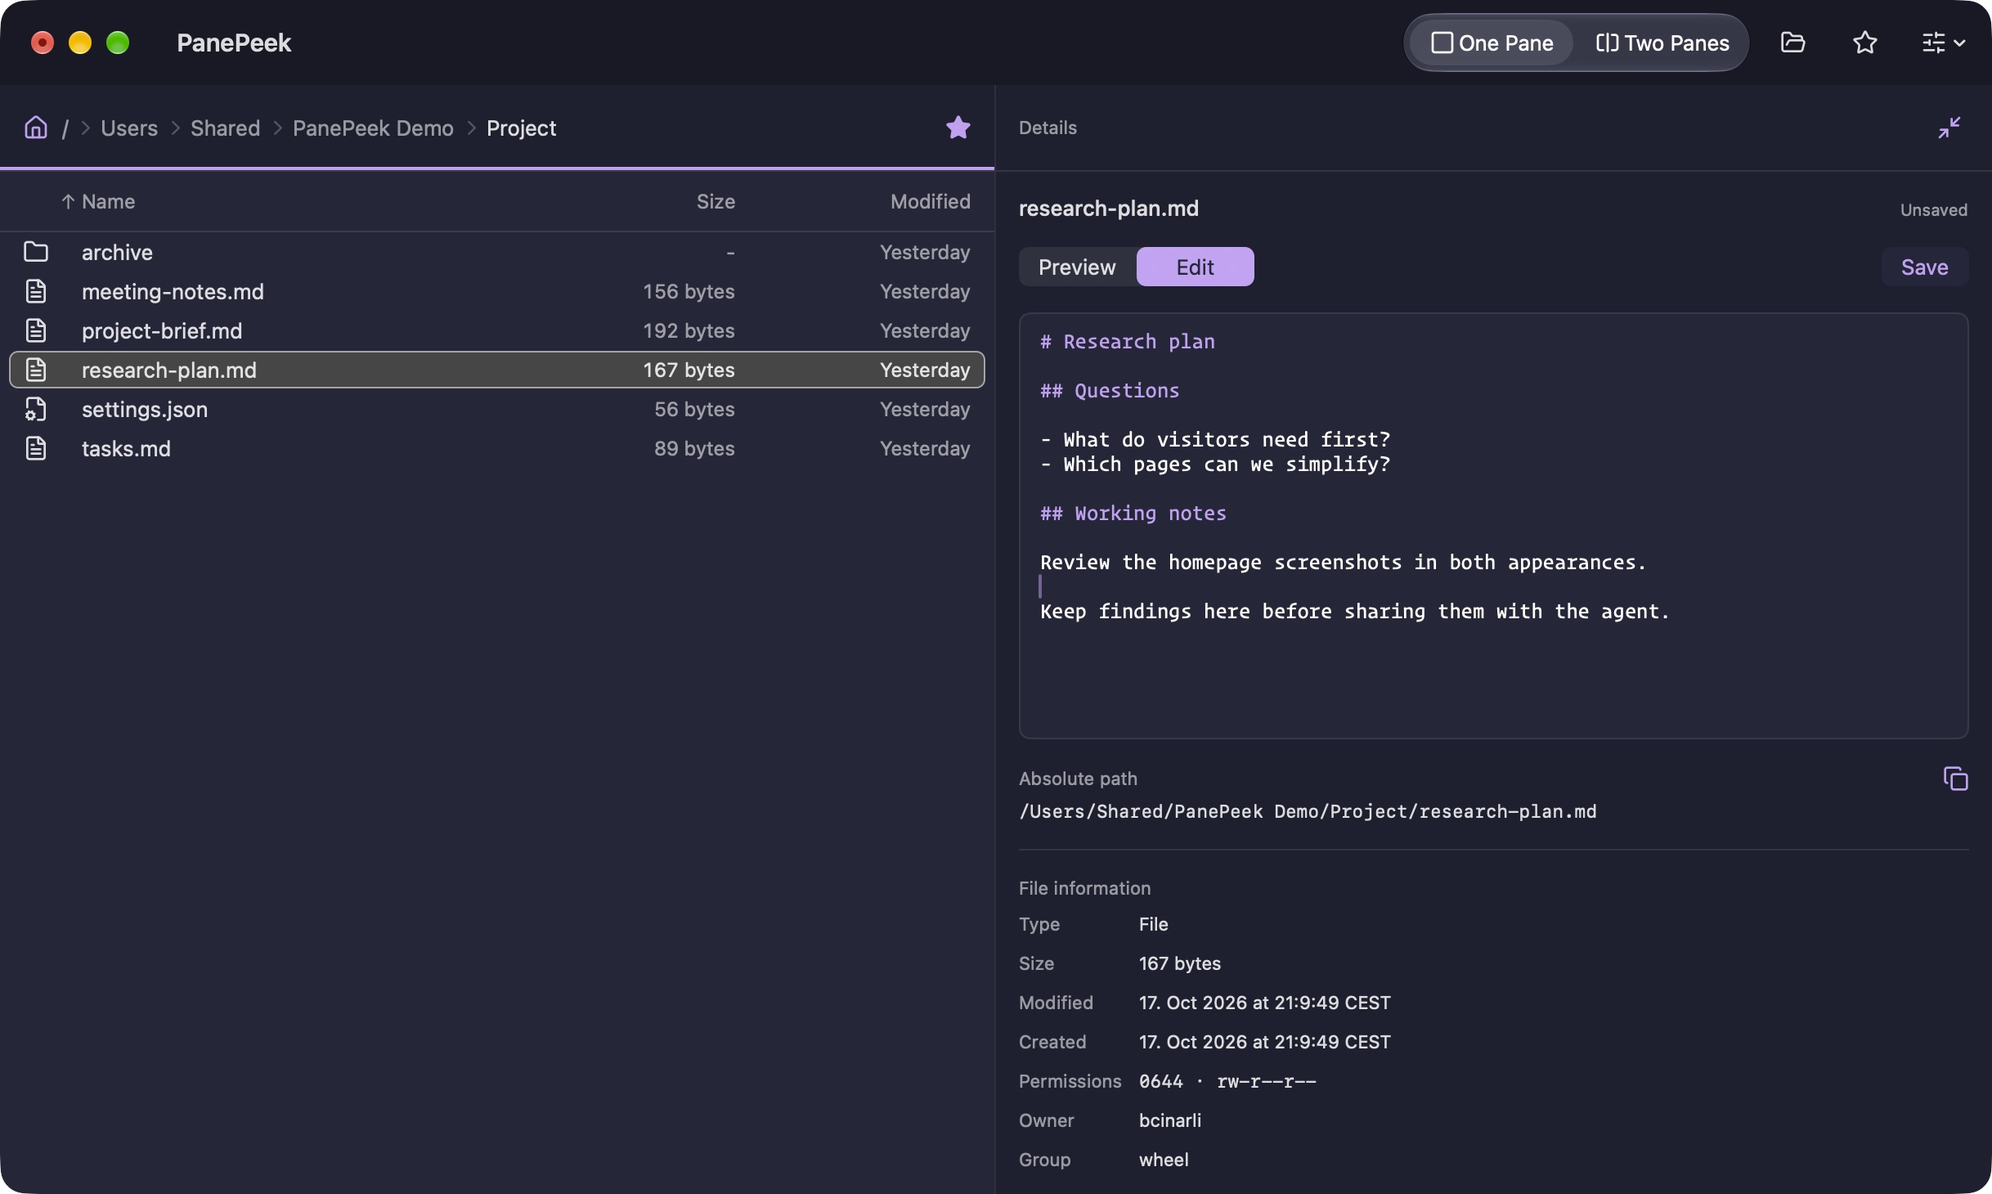
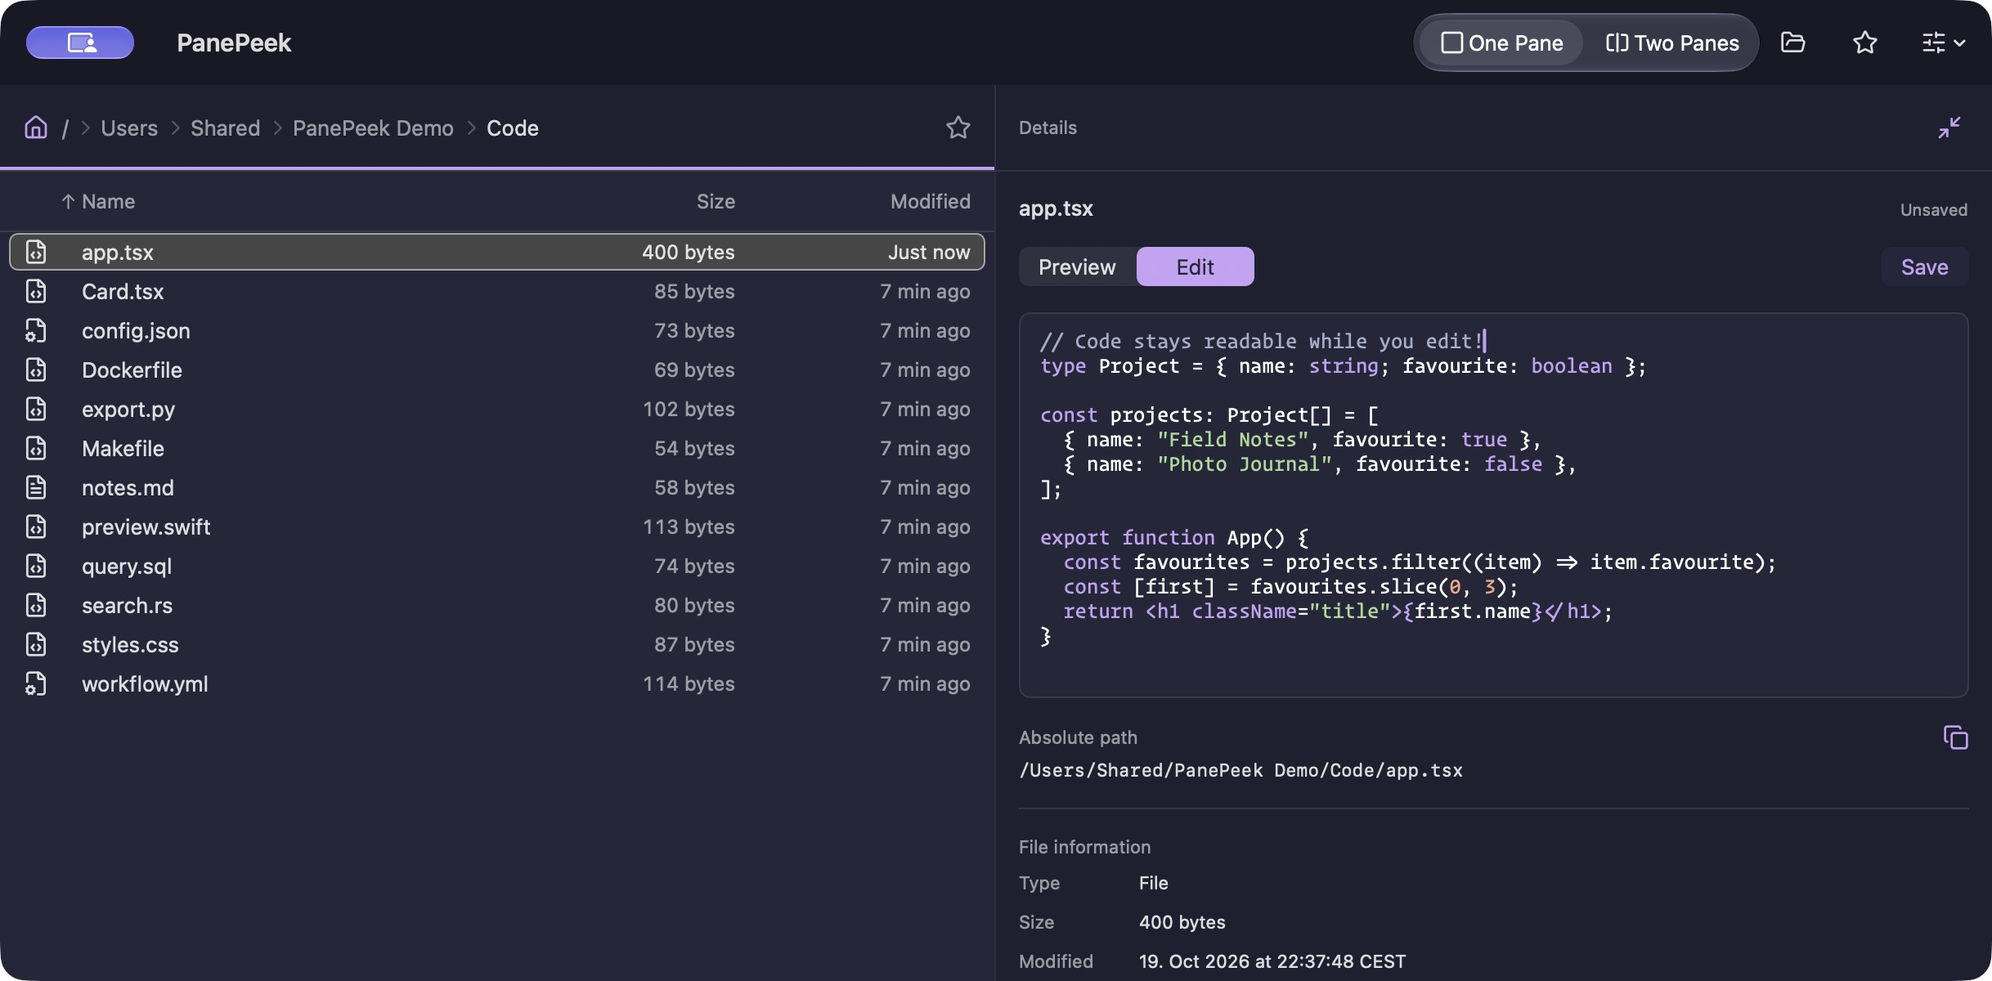
Show syntax highlighting in website screenshots and support

diff --git a/website/index.html b/website/index.html
@@ -64,7 +64,7 @@
   <title>PanePeek · Edit text files as you browse</title>
   <link rel="icon" href="assets/peeking-p.svg" type="image/svg+xml">
   <script src="theme.js"></script>
-  <link rel="stylesheet" href="styles.css?v=16">
+  <link rel="stylesheet" href="styles.css?v=17">
   <script src="lightbox.js" defer></script>
 </head>
 <body id="top">
@@ -113,24 +113,24 @@
           <p class="eyebrow">Edit in place</p>
           <h2 id="edit-title">Your editor,<br>beside your files.</h2>
           <p>Select a text file and choose Edit in Details. Make your changes beside the folder list, then choose Save to keep them in the file.</p>
-          <p class="secondary-copy">Update a Markdown note or a settings file, with syntax highlighting for supported formats. You can also preview images and video as you browse.</p>
+          <p class="secondary-copy">Edit code and settings files with syntax highlighting, including TypeScript, Python and Swift. <a href="support/#syntax-highlighting">See all supported languages and formats</a>. You can also preview images and video as you browse.</p>
         </div>
         <div class="edit-previews">
           <figure class="edit-preview">
-            <a class="screenshot-link" href="assets/app-edit-dark.png" aria-label="Open the full-size editor screenshot in dark mode">
+            <a class="screenshot-link" href="assets/app-edit-dark.png?v=2" aria-label="Open the full-size editor screenshot in dark mode">
               <span class="native-capture native-capture-dark">
-                <img src="assets/app-edit-dark.png" width="2436" height="1460" alt="PanePeek in dark mode, with a Markdown draft open in the expanded Details editor." loading="lazy">
+                <img src="assets/app-edit-dark.png?v=2" width="2436" height="1200" alt="PanePeek in dark mode, editing a TypeScript TSX file with coloured syntax beside a folder of code and configuration files." loading="lazy">
               </span>
             </a>
-            <figcaption><span>Editing in dark mode.</span><span>App screenshot · Sample files</span></figcaption>
+            <figcaption><span>TypeScript highlighting in dark mode.</span><span>App screenshot · Sample files</span></figcaption>
           </figure>
           <figure class="edit-preview">
-            <a class="screenshot-link" href="assets/app-edit-light.png" aria-label="Open the full-size editor screenshot in light mode">
+            <a class="screenshot-link" href="assets/app-edit-light.png?v=3" aria-label="Open the full-size editor screenshot in light mode">
               <span class="native-capture native-capture-light">
-                <img src="assets/app-edit-light.png" width="2200" height="1300" alt="PanePeek in light mode, with Markdown text open in the expanded Details editor." loading="lazy">
+                <img src="assets/app-edit-light.png?v=3" width="2436" height="1200" alt="PanePeek in light mode, editing a Python file with coloured syntax beside a folder of code and configuration files." loading="lazy">
               </span>
             </a>
-            <figcaption><span>Editing in light mode.</span><span>App screenshot · Sample files</span></figcaption>
+            <figcaption><span>Python highlighting in light mode.</span><span>App screenshot · Sample files</span></figcaption>
           </figure>
         </div>
       </div>

diff --git a/website/support/index.html b/website/support/index.html
@@ -48,7 +48,7 @@
   <title>Support · PanePeek</title>
   <link rel="icon" href="../assets/peeking-p.svg" type="image/svg+xml">
   <script src="../theme.js"></script>
-  <link rel="stylesheet" href="../styles.css?v=16">
+  <link rel="stylesheet" href="../styles.css?v=17">
 </head>
 <body id="top">
   <a class="skip-link" href="#main">Skip to content</a>
@@ -73,6 +73,7 @@
       <p class="support-intro">Learn the basics and find answers to common questions.</p>
       <nav class="support-topics" aria-label="On this page">
         <a href="#getting-started">Getting started</a>
+        <a href="#syntax-highlighting">Syntax highlighting</a>
         <a href="#shortcuts">Shortcuts</a>
         <a href="#common-questions">Common questions</a>
         <a href="#contact">Contact</a>
@@ -103,6 +104,36 @@
           <p>Select files or folders in one pane, then right-click and choose Copy to Other Pane or Move to Other Pane. You can also drag items between panes or between PanePeek and Finder.</p>
         </li>
       </ol>
+    </section>
+
+    <section class="support-section wrap" id="syntax-highlighting" aria-labelledby="syntax-highlighting-title">
+      <div class="support-heading">
+        <p class="eyebrow">Text files</p>
+        <h2 id="syntax-highlighting-title">Syntax<br>highlighting.</h2>
+        <p>Colour highlighting is available in both Preview and Edit. PanePeek chooses it from the file’s extension or recognised filename. Other editable text files appear as plain text.</p>
+      </div>
+      <ul class="support-steps">
+        <li>
+          <h3>Code</h3>
+          <p>Swift, Python, JavaScript, TypeScript, PHP, Go, Rust, Java, C, C++ and C#.</p>
+        </li>
+        <li>
+          <h3>Markup and styles</h3>
+          <p>HTML, XML, JSX, TSX, CSS, SCSS and Markdown.</p>
+        </li>
+        <li>
+          <h3>Configuration</h3>
+          <p>JSON, YAML (<code>.yaml</code> and <code>.yml</code>) and TOML.</p>
+        </li>
+        <li>
+          <h3>Scripts and queries</h3>
+          <p>Shell scripts (Bash and Zsh) and SQL. Common shell startup files are also recognised.</p>
+        </li>
+        <li>
+          <h3>Build files</h3>
+          <p>Dockerfile and Makefile, including recognised filename variants.</p>
+        </li>
+      </ul>
     </section>
 
     <section class="support-section wrap" id="shortcuts" aria-labelledby="support-shortcuts-title">

diff --git a/website/styles.css b/website/styles.css
@@ -563,9 +563,10 @@ kbd {
 .edit-preview {
   min-width: 0;
 }
-/* Match the visible light capture so paired frames share a baseline. */
+/* Both editing captures share the same native window geometry. */
 .edit-preview :where(.native-capture) {
-  aspect-ratio: 2200 / 1196;
+  --capture-top: -4.2693%;
+  aspect-ratio: 2436 / 1096;
 }
 .edit-preview :where(.screenshot-link) {
   box-shadow: 0 20px 60px var(--edit-shadow);

diff --git a/website/privacy/index.html b/website/privacy/index.html
@@ -48,7 +48,7 @@
   <title>Privacy · PanePeek</title>
   <link rel="icon" href="../assets/peeking-p.svg" type="image/svg+xml">
   <script src="../theme.js"></script>
-  <link rel="stylesheet" href="../styles.css?v=16">
+  <link rel="stylesheet" href="../styles.css?v=17">
 </head>
 <body id="top">
   <a class="skip-link" href="#main">Skip to content</a>

diff --git a/website/404.html b/website/404.html
@@ -11,7 +11,7 @@
   <title>Page not found · PanePeek</title>
   <link rel="icon" href="/assets/peeking-p.svg" type="image/svg+xml">
   <script src="/theme.js"></script>
-  <link rel="stylesheet" href="/styles.css?v=16">
+  <link rel="stylesheet" href="/styles.css?v=17">
 </head>
 <body id="top">
   <a class="skip-link" href="#main">Skip to content</a>

diff --git a/agent-paper-trail/specs/2026-10-17-website/spec.md b/agent-paper-trail/specs/2026-10-17-website/spec.md
@@ -27,9 +27,9 @@ The Privacy page identifies Bilal Cinarli as publisher and explains local file p
 
 All three pages include plain footer links to the [project repository](https://github.com/bcinarli/pane-peek), [X profile](https://x.com/bcinarli) and [LinkedIn profile](https://www.linkedin.com/in/bcinarli), without embedded widgets or claims about repository visibility or licensing. The project GitHub link also appears in each top menu.
 
-The hero follows the selected appearance, retaining the illustrative light preview and showing an updated native Macchiato capture in dark mode. The editing section shows native light and Macchiato captures in either website appearance. Native images use fictional sample documents; capture preparation isolates preferences and avoids modifying the parallel app worktree. Cursor/glow cleanup is limited to its title-bar area and preserves the native resolution and every pixel outside that area.
+The hero follows the selected appearance, retaining the illustrative light preview and showing an updated native Macchiato capture in dark mode. The editing section shows native light and Macchiato captures of a visibly highlighted code file beside varied supported code/configuration files in either website appearance. Support lists the implemented highlighting languages and formats, including filename-based build and shell files. Editing captures exclude cursor glow. Native images use fictional sample documents; capture preparation isolates preferences and avoids modifying the parallel app worktree. Cursor/glow cleanup is limited to its title-bar area and preserves the native resolution and every pixel outside that area.
 
-Paired editing previews use the same visible frame proportions, keeping image edges and captions aligned. Preserve the original full-size assets, their proportions and accessible image links.
+Paired editing previews use the same visible frame proportions, keeping image edges and captions aligned. Preserve each capture’s native dimensions, proportions and accessible full-size image links.
 
 Final release screenshot selection must reflect the final native app appearance, including full Macchiato dark mode.
 
@@ -90,9 +90,10 @@ Metadata and the image are available without executing JavaScript. The 404 page 
 | W21 | The shared 1200 × 630 JPEG uses accepted logo geometry and a native editing capture with fictional data, remains legible at preview sizes and has an editable source outside the published site. Hosted fetches and final client previews are checked after deployment. |
 | W22 | The shared stylesheet follows the defined responsibility order with lower component specificity and fewer redundant overrides, preserving the current rendering and behaviour across all four pages, themes and responsive breakpoints. |
 | W23 | The Privacy heading area aligns with the standard 1120 px container while policy sections retain a left-aligned 760 px reading column, responsive reflow and keyboard access. |
-| W24 | Paired editing screenshot frames and captions align at desktop widths and reflow at narrow widths in both themes; original assets and full-size modal behaviour remain intact. |
+| W24 | Paired editing screenshot frames and captions align at desktop widths and reflow at narrow widths in both themes; full-size images retain native dimensions and modal behaviour remains intact. |
 | W25 | The homepage exposes useful shortcut highlights and links to a curated, accessible Support reference of app-specific and less-obvious commands consistent with implementation and the usage guide, with familiar Finder-style commands omitted. |
 | W26 | The usage guide lists the complete 36-action reference in six groups, and PRIVACY.md preserves app-specific detail while matching accepted website/support/privacy facts. |
+| W27 | Editing screenshots visibly demonstrate code highlighting beside varied supported files, without cursor glow. The homepage links to a complete, source-backed Support language/format list; images, alternatives and captions agree and work at paired/stacked widths and full size. |
 
 ## Boundaries
 

diff --git a/website/README.md b/website/README.md
@@ -36,9 +36,11 @@ After publication, verify that crawlers can fetch the page and image, inspect ca
 
 `assets/peeking-p.svg`, `app-browse.png` and the retained unused `app-edit.png` are unchanged copies of the [accepted design sources](../agent-paper-trail/design/001-mvp/README.md). The light hero is labelled “Design preview”.
 
-`app-browse-dark.png`, `app-edit-dark.png` and `app-edit-light.png` come from native captures of the updated app with fictional sample files. The hero follows the selected appearance; both editing appearances remain visible in either theme. The cursor and glow were removed only within a 160 × 104-pixel title-bar area, using matching native title-bar pixels. Lossless PNGs retain the original resolution and identical pixels everywhere outside that area. The unused JPEG originals remain as capture sources.
+`app-browse-dark.png` is the native Macchiato hero capture with fictional sample documents. Its cursor/glow cleanup is confined to a 160 × 104-pixel title-bar area; pixels outside that area are unchanged. See [hero capture provenance](../agent-paper-trail/specs/2026-10-17-website/evidence/native-dark-screenshot.md).
 
-CSS frames app content below the title bar, omitting the system control badge retained in the light capture. Full-size links open the cursor-free PNGs. Final release screenshot selection remains separate. See [capture provenance and validation](../agent-paper-trail/specs/2026-10-17-website/evidence/native-dark-screenshot.md).
+`app-edit-dark.png` and `app-edit-light.png` show highlighted TypeScript TSX and Python drafts beside a folder of fictional code and configuration files. Both are native PanePeek 1.0.0 (5) captures at 2436 × 1200 pixels, prepared using keyboard input so no cursor or glow appears. PNG exports preserve the decoded capture pixels, without retouching. Both editing appearances remain visible in either theme; their frames and captions align. The unused editing JPEGs belong to the earlier Markdown captures.
+
+CSS frames app content below the title bar, omitting the system control badge. Full-size links open the complete cursor-free PNGs. Final release screenshot selection remains separate. See [editing capture provenance and validation](../agent-paper-trail/specs/2026-10-17-website/evidence/syntax-highlighting-content.md).
 
 Every page fills at least the browser height. Main content grows to keep the footer at the bottom on short pages, while longer pages scroll naturally with the footer after the content.
 

diff --git a/agent-paper-trail/specs/2026-10-17-website/evidence/syntax-highlighting-content.md b/agent-paper-trail/specs/2026-10-17-website/evidence/syntax-highlighting-content.md
@@ -1,0 +1,30 @@
+---
+task: syntax-highlighting-content
+verdict: Passed
+closed: 2026-10-19
+---
+
+# Syntax highlighting content
+
+## Assets
+
+- `app-edit-dark.png`: native Macchiato capture editing TypeScript/TSX.
+- `app-edit-light.png`: native Light capture editing Python.
+
+Both show PanePeek 1.0.0 (5), fictional code/configuration files and an unsaved draft with Save available. The 2436 × 1200 PNGs preserve native capture pixels and colour profiles without retouching. Cursor/glow and personal owner/group fields are absent. Inline framing omits the 104-pixel title bar; full-size images retain it.
+
+## Validation
+
+Checks executed on 2026-10-19, agent-observed:
+
+- Support covers all 25 highlighting language/format groups and 43 dispatched extension aliases, plus build/shell filename recognition, against `SyntaxHighlighting.swift` and A15. Alternatives and captions match the TSX/Python images.
+- Home and Support pass 12 Light/Dark layout cases at 1280, 850 and 320 pixels without horizontal overflow. Paired frames and captions align; images stack at 850 pixels.
+- Full-size images load at native dimensions. Keyboard opening, Escape dismissal, focus return and the Support-section link pass; keyboard focus has a visible 3-pixel Mauve outline.
+- PNG/source comparisons find zero decoded RGB differences. Visual checks find no cursor/glow or personal owner/group fields.
+- All 77 local HTML references and 97 changed-document Markdown targets resolve. Changed-file privacy checks cover 14 files without findings; website and paper-trail Gitleaks 8.30.1 and whitespace checks pass. Browser warning/error logs are empty.
+
+## Limitations
+
+- The installed capture build classifies `.ts` as video on this Mac. TSX and Python text editing are verified; `.ts` classification needs a separate app follow-up.
+- VoiceOver and actual browser enlargement remain unverified under W4.
+- Native regression tests were not run; app source is unchanged.

diff --git a/agent-paper-trail/specs/2026-10-17-website/validation.md b/agent-paper-trail/specs/2026-10-17-website/validation.md
@@ -30,3 +30,4 @@ Criterion outcomes remain Pending until the complete relevant checks and manual 
 | W24 Paired screenshot alignment | Passed | [Image/shortcut evidence](evidence/images-shortcuts.md); frame/caption checks pass at paired and stacked widths in both themes, with original assets and modal focus/scroll behaviour intact. Presented scope accepted overall on 2026-10-19. |
 | W25 Shortcut highlights and reference | Passed | [Image/shortcut evidence](evidence/images-shortcuts.md); six homepage highlights and ten grouped Support actions match source-backed shortcuts and omit familiar Finder-style commands. Responsive, label and navigation checks pass; presented scope accepted overall on 2026-10-19. |
 | W26 Repository guide and privacy consistency | Passed | [Repository documentation evidence](evidence/repository-docs.md); 36 actions in six groups, command coverage, preserved app-policy detail and aligned public disclosures pass. Documentation scope accepted overall on 2026-10-19. |
+| W27 Syntax highlighting presentation | Passed | [Capture and content evidence](evidence/syntax-highlighting-content.md); 12 responsive/theme cases, native-pixel preservation, source coverage, local references and full-size keyboard/focus checks pass. Presented screenshot/copy scope accepted overall on 2026-10-19; VoiceOver and actual enlargement remain unverified under W4. |

diff --git a/agent-paper-trail/specs/2026-10-17-website/plan.md b/agent-paper-trail/specs/2026-10-17-website/plan.md
@@ -101,3 +101,7 @@ Verify equal frame heights and caption baselines when side by side, consistent p
 ## Repository documentation alignment
 
 Keep Support’s curated shortcut list and put the full 36-action reference in docs/usage.md using the six task groups. Check all explicit app bindings and context notes. Align PRIVACY.md with the accepted public contact, provider, retention and website disclosures while preserving its file, clipboard, settings and draft details. Check source consistency, Markdown targets and repository privacy rules; apply tighten/probe before publication.
+
+## Syntax highlighting content
+
+Refresh both native editing captures using the standard fictional demo folder, a varied code/configuration listing and highlighted TSX (Dark) and Python (Light) drafts in Edit. Use keyboard-only capture preparation to exclude cursor glow. Preserve native pixels and document provenance; align paired frames and update their dimensions, captions and alternatives. Add a linked Support section listing the implemented languages/formats, verified against the highlighting dispatcher and A15. Check both themes, paired/stacked layouts, full-size previews, keyboard focus and local references. Apply tighten then probe and present the local preview for manual acceptance. Native app behaviour and website publication retain separate gates.

diff --git a/agent-paper-trail/specs/2026-10-17-website/tasks.md b/agent-paper-trail/specs/2026-10-17-website/tasks.md
@@ -22,5 +22,6 @@
 | Screenshot alignment and shortcuts | Completed | Passed | Presented scope accepted overall on 2026-10-19 | [PR #61](https://github.com/bcinarli/pane-peek/pull/61), merged | [images-shortcuts](evidence/images-shortcuts.md) |
 | Repository documentation alignment | Completed | Passed | Documentation scope accepted overall on 2026-10-19 | [PR #61](https://github.com/bcinarli/pane-peek/pull/61), merged | [repository-docs](evidence/repository-docs.md) |
 | Deployed verification | Completed | Passed | HTTP/source checks only; actual client previews unverified | [Live](https://panepeek.app); records in [PR #63](https://github.com/bcinarli/pane-peek/pull/63) | [deployed-verification](evidence/deployed-verification.md) |
+| Syntax highlighting content | Completed | Passed | Presented screenshot and language-list scope accepted overall on 2026-10-19; VoiceOver and actual enlargement remain unverified | Publication pending | [syntax-highlighting-content](evidence/syntax-highlighting-content.md) |
 
 Baseline source: [PR #43](https://github.com/bcinarli/pane-peek/pull/43), merged into `main`. The baseline and launch content are live at [panepeek.app](https://panepeek.app); the editing revision has a hosted preview linked in its evidence.

diff --git a/agent-paper-trail/INDEX.md b/agent-paper-trail/INDEX.md
@@ -2,6 +2,8 @@
 
 ## What is in flight?
 
+[Website syntax highlighting content](specs/2026-10-17-website/evidence/syntax-highlighting-content.md) is Completed/Passed for the accepted code-editing captures and supported-language list. Publication is pending.
+
 | Workstream | Start here |
 | --- | --- |
 | [Native app MVP](specs/001-mvp/README.md) | [Tasks](specs/001-mvp/tasks.md) and [criterion verdicts](specs/001-mvp/validation.md). |
